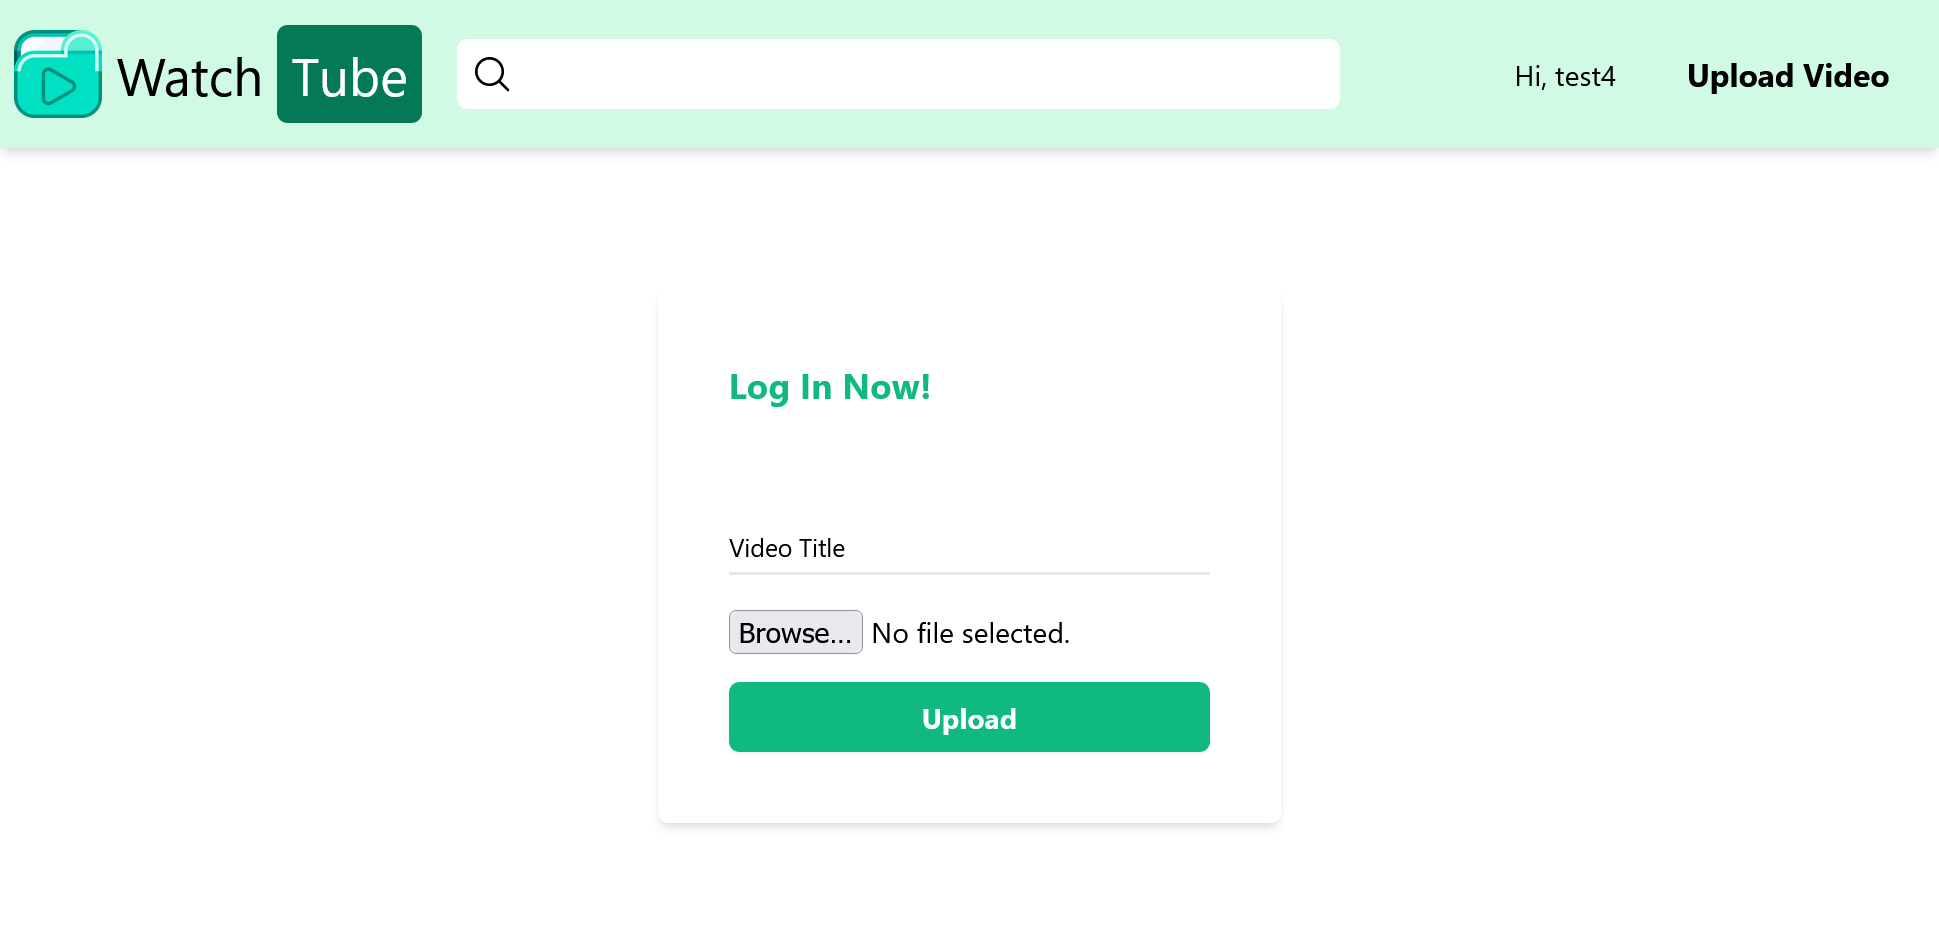
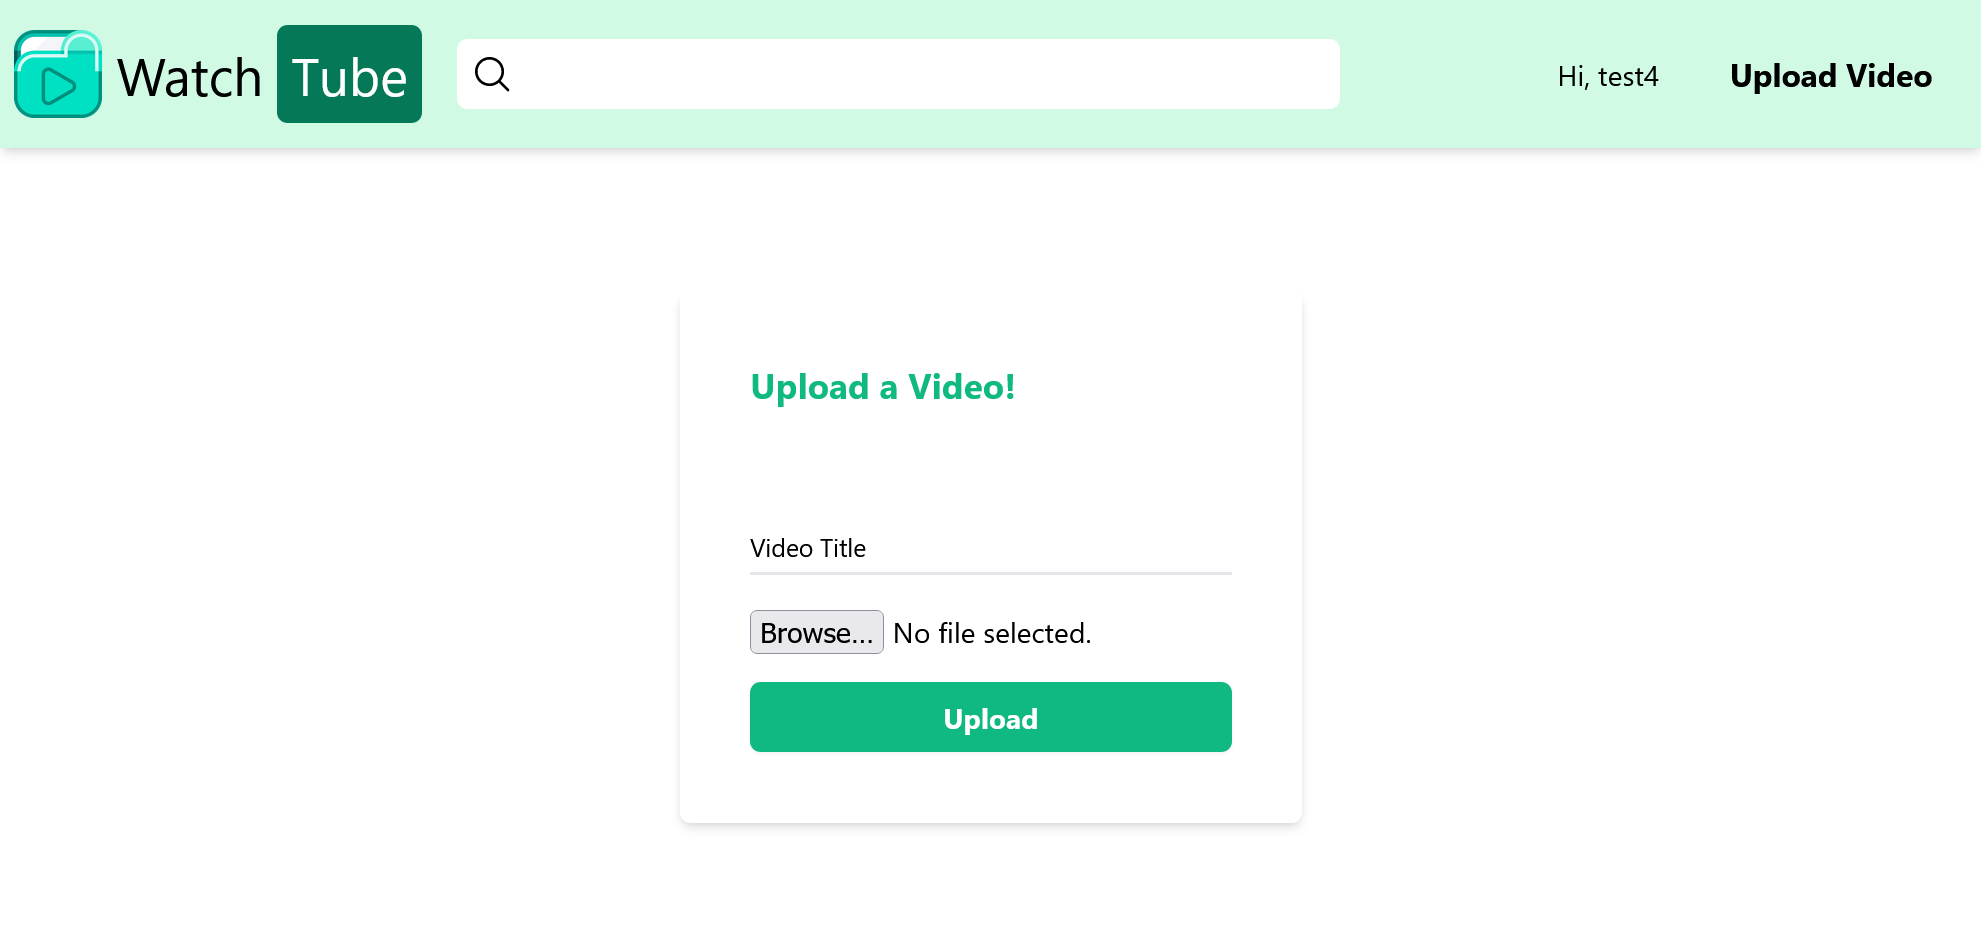
minor cleanup

diff --git a/client/src/App.tsx b/client/src/App.tsx
@@ -1,15 +1,15 @@
 import { QueryClient, QueryClientProvider } from "react-query";
 import { Route, BrowserRouter as Router, Routes } from "react-router-dom";
-import EditVideoView from "./components/views/SearchView";
-import Home from "./components/views/Home";
-import Login from "./components/views/Login";
+import Home from "./components/views/HomeView";
+import Login from "./components/views/LoginView";
 import Navbar from "./components/Navbar";
-import Register from "./components/views/Register";
+import Register from "./components/views/RegisterView";
 import SingleVideoView from "./components/views/SingleVideoView";
-import Upload from "./components/views/Upload";
+import Upload from "./components/views/UploadView";
 import { UserContextProvider } from "./utils/UserContext";
 import { VideoProvider } from "./utils/VideoContext";
 import SearchView from "./components/views/SearchView";
+
 const queryClient = new QueryClient();
 function App() {
   return (

diff --git a/client/src/components/forms/RegisterForm.tsx b/client/src/components/forms/RegisterForm.tsx
@@ -40,7 +40,6 @@ export default function RegisterForm(props: props) {
         onChange={(ev) => {
           setData((old) => ({ ...old, username: ev.target.value }));
         }}
-        submitted={false}
       ></InputField>
       <InputField
         value={data.password}
@@ -54,7 +53,6 @@ export default function RegisterForm(props: props) {
         onChange={(ev) => {
           setData((old) => ({ ...old, password: ev.target.value }));
         }}
-        submitted={false}
       ></InputField>
       <InputField
         value={data.confirmPassword}
@@ -68,7 +66,6 @@ export default function RegisterForm(props: props) {
         onChange={(ev) => {
           setData((old) => ({ ...old, confirmPassword: ev.target.value }));
         }}
-        submitted={false}
       ></InputField>
       <Button
         disabled={buttonDisabled}

diff --git a/client/src/components/basic/InputField.tsx b/client/src/components/basic/InputField.tsx
@@ -7,14 +7,13 @@ export interface inputProps {
   label: string;
   type: string;
   required: boolean;
-  invalid: boolean;
+  invalid?: boolean;
   name: string;
   onChange: ChangeEventHandler<HTMLInputElement>;
-  submitted: boolean;
   className?: string;
 }
 export function InputField(props: inputProps) {
-  const { label, submitted, invalid, onChange, className, errors, ...inputProps } = props;
+  const { label, invalid, onChange, className, errors, ...inputProps } = props;
   return (
     <div className={"relative z-0 w-full " + (className || "")}>
       <input

diff --git a/client/src/components/forms/EditVideoForm..tsx b/client/src/components/forms/EditVideoForm..tsx
@@ -41,7 +41,6 @@ export default function EditVideoForm(props: props) {
         onChange={(ev) => {
           setData((old) => ({ ...old, title: ev.target.value }));
         }}
-        submitted={false}
       ></InputField>
       <InputField
         value={data.description}
@@ -55,7 +54,6 @@ export default function EditVideoForm(props: props) {
         onChange={(ev) => {
           setData((old) => ({ ...old, description: ev.target.value }));
         }}
-        submitted={false}
       ></InputField>
       <div className="flex gap-1">
         <Button

diff --git a/client/src/components/forms/LoginForm.tsx b/client/src/components/forms/LoginForm.tsx
@@ -40,7 +40,6 @@ export default function LoginForm(props: props) {
         onChange={(ev) => {
           setData((old) => ({ ...old, username: ev.target.value }));
         }}
-        submitted={false}
       ></InputField>
       <InputField
         value={data.password}
@@ -54,7 +53,6 @@ export default function LoginForm(props: props) {
         onChange={(ev) => {
           setData((old) => ({ ...old, password: ev.target.value }));
         }}
-        submitted={false}
       ></InputField>
 
       <Button

diff --git a/client/src/components/views/UploadView.tsx b/client/src/components/views/UploadView.tsx
@@ -5,7 +5,7 @@ export default function Upload() {
   return (
     <div className="flex gap-5 justify-start pt-20 items-center flex-col h-full">
       <div className="flex flex-col gap-4 shadow-md p-10 rounded-md">
-        <h3 className="font-bold text-xl text-emerald-500 mb-10">Log In Now!</h3>
+        <h3 className="font-bold text-xl text-emerald-500 mb-10">Upload a Video!</h3>
         <UploadForm></UploadForm>
       </div>
     </div>

diff --git a/client/src/components/forms/UploadForm.tsx b/client/src/components/forms/UploadForm.tsx
@@ -39,7 +39,6 @@ export default function UploadForm(props: props) {
         onChange={(ev) => {
           setData((old) => ({ ...old, title: ev.target.value }));
         }}
-        submitted={false}
       ></InputField>
       <input
         type="file"
